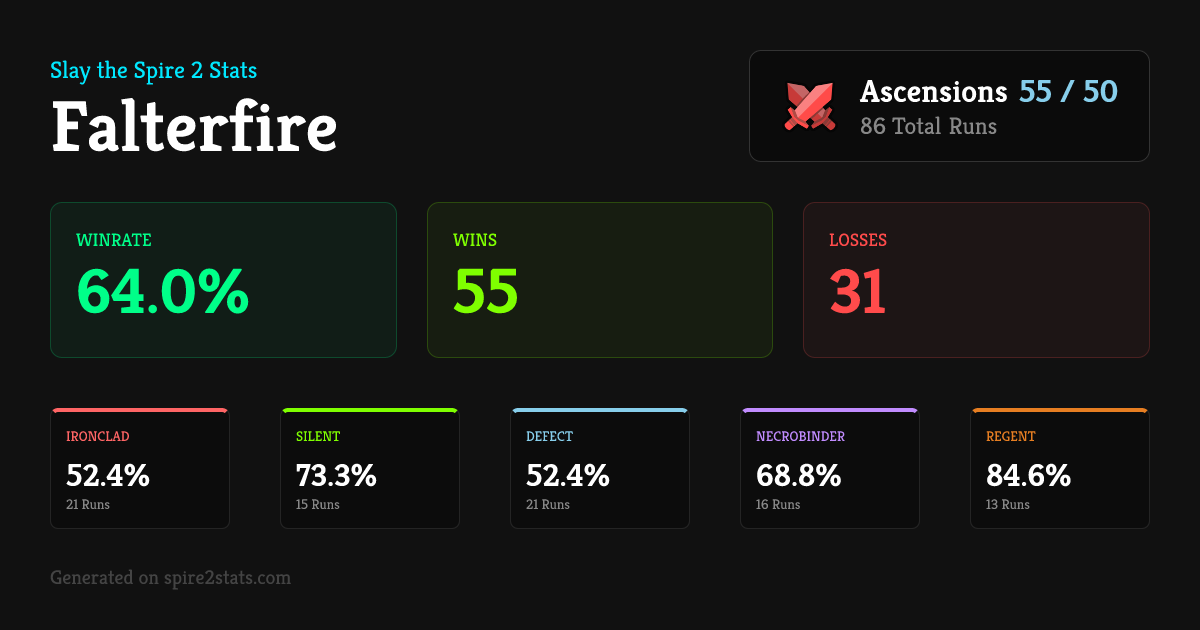
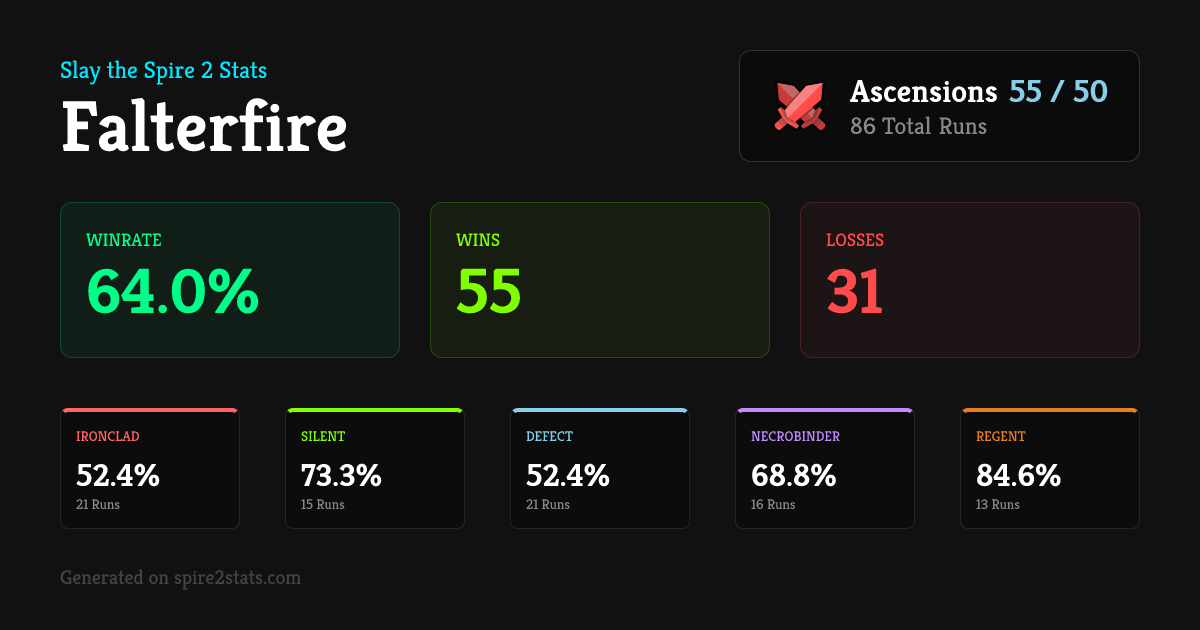
1

diff --git a/ssg/utils/templates/build-png/user-png.js b/ssg/utils/templates/build-png/user-png.js
@@ -14,9 +14,9 @@ const PNG_COLORS = {
  * @param {object} user - User record from DB.
  * @param {Array} userRuns - Filtered list of runs for this user.
  * @param {object} charLookup - Mapping of character IDs to display names.
- * @param {string} swordIcon - Base64 string of the stats_swords icon.
+ * @param {string} icon - Base64 string of the primary branding icon.
  */
-export function getUserSummaryTemplate(user, userRuns, charLookup, swordIcon) {
+export function getUserSummaryTemplate(user, userRuns, charLookup, icon) {
     const userWins = userRuns.filter(r => r.win).length;
     const userTotal = userRuns.length;
     const userWinRate = calculateWinRate(userRuns).toFixed(1);
@@ -51,7 +51,7 @@ export function getUserSummaryTemplate(user, userRuns, charLookup, swordIcon) {
     }).join('');
 
     return html(`
-    <div style="display: flex; flex-direction: column; width: 1200px; height: 630px; background-color: #111; color: #e3e3e3; font-family: 'Kreon'; padding: 50px; position: relative;">
+    <div style="display: flex; flex-direction: column; width: 1200px; height: 630px; background-color: #111; color: #e3e3e3; font-family: 'Kreon'; padding: 50px 60px; position: relative;">
         
         <!-- Header -->
         <div style="display: flex; justify-content: space-between; align-items: flex-end; margin-bottom: 40px;">
@@ -60,7 +60,7 @@ export function getUserSummaryTemplate(user, userRuns, charLookup, swordIcon) {
                 <div style="font-size: 72px; font-weight: bold; color: #fff; line-height: 1;">${user.display_name}</div>
             </div>
             <div style="display: flex; align-items: center; background: rgba(0,0,0,0.4); padding: 20px 30px; border-radius: 12px; border: 1px solid #333;">
-                <img src="${swordIcon}" style="width: 60px; height: 60px; margin-right: 20px;" />
+                <img src="${icon}" style="width: 60px; height: 60px; margin-right: 20px;" />
                 <div style="display: flex; flex-direction: column;">
                             <div style="display: flex; font-size: 32px; font-weight: bold;">
                         <span style="color: #fff;">Ascensions</span>
@@ -93,7 +93,7 @@ export function getUserSummaryTemplate(user, userRuns, charLookup, swordIcon) {
         </div>
 
         <!-- Branding Footer -->
-        <div style="position: absolute; bottom: 40px; left: 50px; font-size: 20px; color: #444;">
+        <div style="position: absolute; bottom: 40px; left: 60px; font-size: 20px; color: #444;">
             Generated on spire2stats.com
         </div>
     </div>
